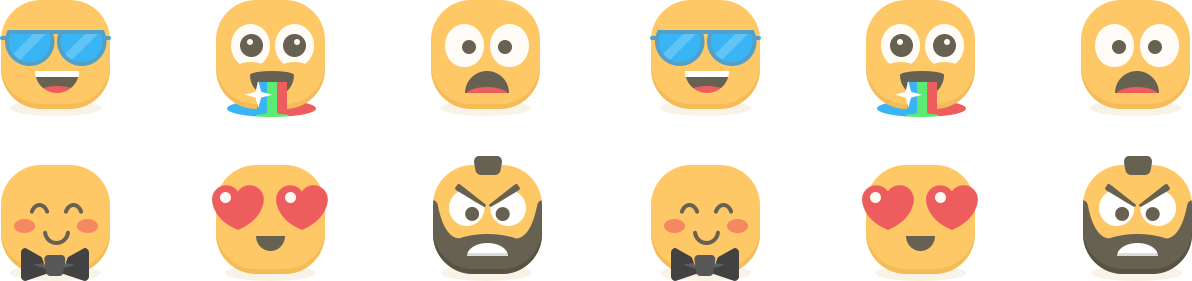
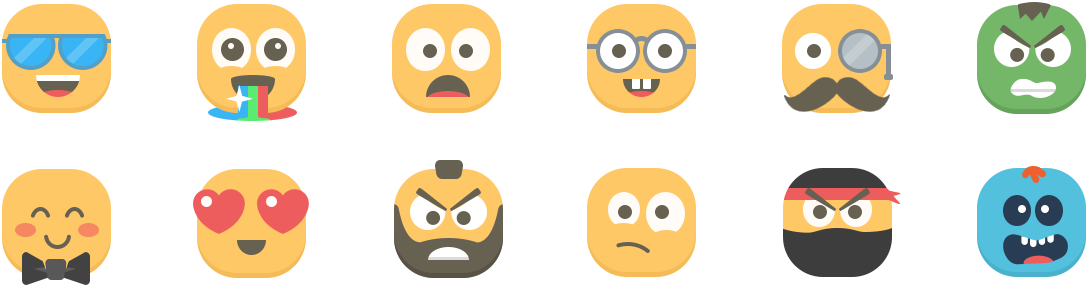
Visual Update

diff --git a/style.css b/style.css
@@ -1,8 +1,8 @@
 /* make keyframes that tell the start state and the end state of our object */
  
-@-webkit-keyframes fadeIn { from { opacity:0; top: 100px;} to { opacity:1; top: 0px;} }
-@-moz-keyframes fadeIn { from { opacity:0; top: 100px;} to { opacity:1; top: 0px;} }
-@keyframes fadeIn { from { opacity:0; top: 100px;} to { opacity:1; top: 0px;} }
+@-webkit-keyframes fadeIn { from { opacity:0; top: 50px;} to { opacity:1; top: 0px;} }
+@-moz-keyframes fadeIn { from { opacity:0; top: 50px;} to { opacity:1; top: 0px;} }
+@keyframes fadeIn { from { opacity:0; top: 50px;} to { opacity:1; top: 0px;} }
  
 .fade-in {
 	opacity:0;  /* make things invisible upon start */
@@ -20,50 +20,34 @@
 }
  
 .fade-in.one {
--webkit-animation-delay: .6s;
--moz-animation-delay: .6s;
-animation-delay: .6s;
+	-webkit-animation-delay: .6s;
+	-moz-animation-delay: .6s;
+	animation-delay: .6s;
 }
  
 .fade-in.two {
--webkit-animation-delay: 1.8s;
--moz-animation-delay: 1.8s;
-animation-delay: 1.8s;
+	-webkit-animation-delay: 2.4s;
+	-moz-animation-delay: 2.4s;
+	animation-delay: 2.4s;
 }
  
 .fade-in.three {
--webkit-animation-delay: 2.8s;
--moz-animation-delay: 2.8s;
-animation-delay: 2.8s;
+	-webkit-animation-delay: 4s;
+	-moz-animation-delay: 4s;
+	animation-delay: 4s;
 }
  
-/*---make a basic box ---*/
 .box{
-width: 400px;
-height: 50px;
-position: relative;
-margin: 10px;
-text-align: left;
-float: left;
-padding-left: 100px;
+	width: 400px;
+	height: 60px;
+	position: relative;
+	margin: 10px;
+	text-align: left;
+	float: left;
+	padding-left: 120px;
 }
  
  
-
- 
-
-
-
-
-
-
-
-
-@font-face {
-    font-family: MetaSerif_Book;
-    src: url(fonts/MetaSerif_Book.ttf);
-}
-
 @font-face {
   font-family: "Avenir";
   src: url("fonts/Avenir.ttc");
@@ -75,7 +59,14 @@ padding-left: 100px;
 }
 
 body {
-	font-family: MetaSerif_Book;
+	font-family: "ff-meta-serif-web-pro", Times, 'Times New Roman', serif;
+	font-size: 16px;
+	font-weight: normal;
+	  -webkit-font-smoothing: antialiased;
+}
+
+img {
+	border: 0px;
 }
 
 a {
@@ -83,8 +74,28 @@ a {
 	text-transform: uppercase;
 	font-size: 13px; 
 	letter-spacing: 2px;
-	color: #5b5b5b;
+	color: #323232;
 	text-decoration: none;
+}
+
+a.normal {
+	font-family: "ff-meta-serif-web-pro", Times, 'Times New Roman', serif;
+	text-transform: none;
+	font-size: 16px; 
+	letter-spacing: 0;
+	color: #323232;
+	text-decoration: none;
+}
+
+
+a:hover {
+	opacity: 0.6;
+	-o-transition:.5s;
+  -ms-transition:.5s;
+  -moz-transition:.5s;
+  -webkit-transition:.5s;
+  /* ...and now for the proper property */
+  transition:.5s;
 }
 
 #wrapper {
@@ -95,10 +106,10 @@ a {
 }
 
 footer {
-	background-color: #282828;
+	background-color: #212325;
 	color: white;
 	padding-top: 100px;
-	padding-bottom: 100px;
+	height: 200px;
 }
 
 #footerinner {
@@ -108,7 +119,9 @@ footer {
 }
 
 #footerinner > h2 {
-	font-size: 30px;
+	color: white;
+	line-height: 36px;
+	float: left; 
 }
 
 #nav {
@@ -116,22 +129,50 @@ footer {
 	padding-top: 60px;
 	color: white;
 	width: 920px;
-	text-align: left;
 	margin-right: auto;
 	margin-left: auto;
 }
 
+#logo {
+	float: left;
+}
+
+#backtolabs {
+	float: right;
+	padding-top: 5px;
+}
+
+#backtolabs > a {
+	color: white;
+	cursor: pointer;
+}
+
+#backtolabs > a:hover, a img:hover{
+	color: white;
+	opacity: 0.8;
+}
+
+
 header.main {
-	background-color: #282828;
-	height: 600px;
+	height: 580px;
 	text-align: center;
-	margin-bottom: 200px;
+	margin-bottom: 180px;
+	background: #212325 url("images/background.png") no-repeat center bottom;
+	background-size: 651px 358px;
 }
 
 h1 {
-	font-size: 36px;
-	color: #4a4a4a;
+	font-size: 40px;
+	color: #323232;
 	padding-bottom: 10px;
+	font-weight: 500;
+}
+
+h2 {
+	font-size: 30px;
+	color: #323232;
+	padding-bottom: 10px;
+	font-weight: 500;
 }
 
 header.main > h1 {
@@ -140,16 +181,17 @@ header.main > h1 {
 
 header.main > p {
 	color: #8b8b8b; 
-	padding-bottom: 10px;
+	padding-bottom: 20px;
 }
 
 #slackImg {
 	background: url("images/img_SlackHeader.png") no-repeat center top;
+	background-size: 620px 421px;
 	height: 600px;
-	width: 500px;
+	width: 600px;
 	margin-right: auto;
 	margin-left: auto;
-	padding-top: 100px;
+	padding-top: 120px;
 }
 
 #cont-1 {
@@ -164,10 +206,47 @@ header.main > p {
 }
 
 p {
-	font-size: 18px;
-	color: #848484;
+	color: #828282;
 	padding-bottom: 60px;
+	line-height: 22px;
+}
+
+p.normal { 
+	color: #828282;
+	padding-bottom: 0px;
+	line-height: 22px;
+}
+
+p.input {
+	padding-bottom: 0px;
+	border-bottom: 1px solid #333;
+	width: 500px;
+	float: left;
+	margin-left: 50px;
+	margin-top: 14px;
 }
 
 
+input {
+  font-family: "ff-meta-serif-web-pro", Times, 'Times New Roman', serif;
+  border-radius: 0;
+  width: 300px;
+  background: none;
+  border: none;
+  padding: 16px 10px 16px 0;
+  font-size: 16px;
+  color: white;
+}
 
+button.arrow-check-btn {
+  display: inline-block;
+  top: 0.9rem;
+  right: 0;
+  z-index: 20;
+  transition: all 30ms ease;
+  background-color: #222222;
+  border: 1px solid #3a3a3a;
+  width: 30px;
+  height: 30px;
+  overflow: hidden;
+}

diff --git a/index.html b/index.html
@@ -3,37 +3,44 @@
     <head>
         <meta charset="utf-8">
         <meta http-equiv="x-ua-compatible" content="ie=edge">
-        <title>Handsome Emojis</title>
+        <title>Handsome - Labs</title>
         <meta name="description" content="">
         <meta name="viewport" content="width=device-width, initial-scale=1">
 
         <link rel="stylesheet" href="style.css">
         <script src="js/vendor/modernizr-2.8.3.min.js"></script>
+        
+        <script src="https://use.typekit.net/qfy7tka.js"></script>
+		<script>try{Typekit.load({ async: true });}catch(e){}</script>
+        
     </head>
     
 <body>
 	<header class="main">
 		<div id="nav">
 			<div id="logo">
+			<a href="http://www.handsome.is">
 			<img style="width: 140px; height: auto;" src="images/logo.png" />
+			</a>		
+			</div>
+			<div id="backtolabs">
+			<a href="">BACK TO LABS</a>
 			</div>
 		</div>
-		<h1>Handsome Slack Emojis</h1>
-		<p>We love emojis so much we made our own set for slack <br />along with a bulk uploader to get them all on there!</p>	
-		
-		
+		<h1>Handsome Emojis</h1>
+		<p>We made a custom emoji set and bulk uploader for slack.</p>	
  
 		<div id="slackImg">
 		<div class="box fade-in one">
-       	Look at all these new emojis
+       	<img style="width: 331px; height: auto;" src="images/convo_1.png" />
 		</div>
  
 		<div class="box fade-in two">
-      	Yea bruh they are dope ry
+      	<img style="width: 290px; height: auto;" src="images/convo_2.png" />
 		</div>
  
 		<div class="box fade-in three">
-        Foooooo sho emojis on fleek 
+        <img style="width: 358px; height: auto;" src="images/convo_3.png" />
 		</div>
 		</div>
 		
@@ -41,24 +48,31 @@
 	
 	<div id="wrapper">
 		<div id="cont-1">
-			<h1>Square Peg Emoji Kit</h1>
-			<p>Our first kit! 12 custom emojis that our team <br />uses the most.</p>
-			<p><img style="width: 592px; height: auto;" src="images/img_emojisCentered.png" />
+			<h1>Square Peg Emoji Set</h1>
+			<p>Our first set! 12 custom emojis that our team <br />uses the most.</p>
+			<p><img style="width: 544px; height: auto;" src="images/img_emojisCentered.png" />
 			<p/>
 			<a href="">Download Now</a>
 		</div>
 		
 		<div id="cont-2">
 			<h1>Emoji Bulk Uploader</h1>
-			<p>We created bookmarkelet to add functionality <br />to the slack emoji uploader.</p>
-			<p><img style="width: 592px; height: auto;" src="images/img_emojisCentered.png" />
+			<p>We created bookmarkelet to add bulk functionality <br />to the slack emoji uploader.</p>
+			<p class="normal"><img style="width: 375px; height: auto;" src="images/bookmark.png" />
+			</p>
+			<p>
+			Drag the link below to your bookmarks bar. Click the bookmarklet <br />when on <a href="" class="normal">slack.com/customize/emojis</a> to activate! 
 			<p/>
-			<a href="">Download Now</a>
+			<a href="">Get Bulk Uploader</a>
 		</div>
 	</div>
 	<footer>
 		<div id="footerinner">
 		<h2>Subscribe to know when<br />we release new emojis.</h2>
+			<p class="input"><input type="email" name="your-email" class="subscribe" placeholder="Enter email...">
+			<button class="arrow-check-btn" type="submit"></button>
+			</p>
+			<p>&copy;2015 Handsome LLC. All Rights Reserved.</p>
 		</div>
 	</footer>
 </body>
